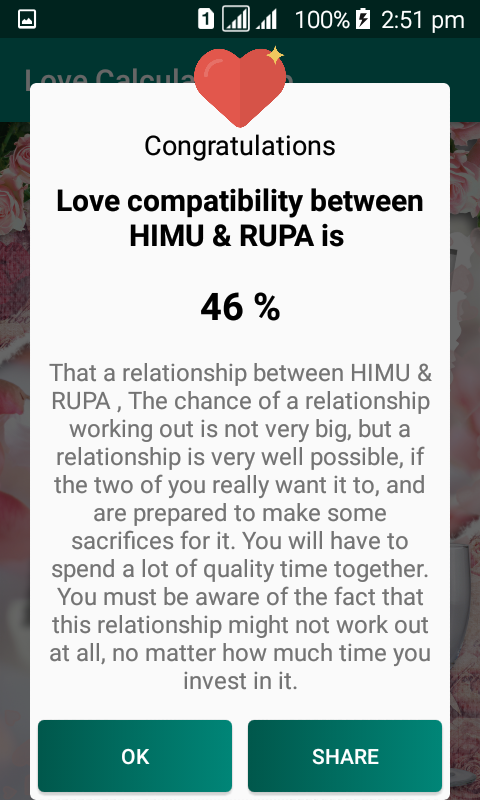
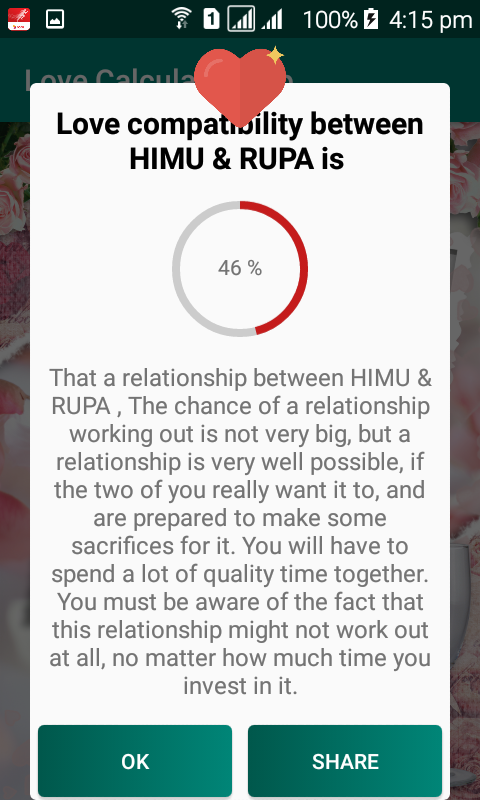
Add progressbar and some update

diff --git a/app/src/main/java/com/samad/talukder/lovecalculatorapp/ShowAlertDialog.java b/app/src/main/java/com/samad/talukder/lovecalculatorapp/ShowAlertDialog.java
@@ -8,6 +8,7 @@ import android.graphics.drawable.ColorDrawable;
 import android.view.View;
 import android.view.Window;
 import android.widget.Button;
+import android.widget.ProgressBar;
 import android.widget.TextView;
 
 public class ShowAlertDialog {
@@ -26,7 +27,8 @@ public class ShowAlertDialog {
         showLovePercentTV.setText(loveScore + " %");
         TextView showTipsTV = dialog.findViewById(R.id.showTipsTV);
         showTipsTV.setText("That a relationship between " + yourName.toUpperCase() + " & " + yourLoverName.toUpperCase() + " , " + loveTips);
-
+        ProgressBar progressBar = dialog.findViewById(R.id.progressBar);
+        progressBar.setProgress(loveScore);
 
         Button dialogOkBtn = dialog.findViewById(R.id.okBtn);
         dialogOkBtn.setOnClickListener(new View.OnClickListener() {
@@ -41,7 +43,7 @@ public class ShowAlertDialog {
             public void onClick(View v) {
                 Intent shareIntent = new Intent(Intent.ACTION_SEND);
                 shareIntent.putExtra(Intent.EXTRA_SUBJECT, "Love Calculator App");
-                shareIntent.putExtra(Intent.EXTRA_TEXT, "Love compatibility between " + yourName.toUpperCase() + " & " + yourLoverName.toUpperCase() + " is " + loveScore + "%");
+                shareIntent.putExtra(Intent.EXTRA_TEXT, "Love compatibility between " + yourName.toUpperCase() + " & " + yourLoverName.toUpperCase() + " is " + loveScore + "%"+"\n"+"Powered By: Samad Talukder ");
                 shareIntent.setType("text/plain");
                 context.startActivity(Intent.createChooser(shareIntent, "Share app via"));
             }

diff --git a/app/src/main/java/com/samad/talukder/lovecalculatorapp/MainActivity.java b/app/src/main/java/com/samad/talukder/lovecalculatorapp/MainActivity.java
@@ -24,7 +24,7 @@ public class MainActivity extends AppCompatActivity {
             public void onClick(View v) {
                 String yourNameStr = yourName.getText().toString();
                 String yourLoverNameStr = yourLoverName.getText().toString();
-                int loveScore = LoveCalculator.loveCalculationASCIIMethod(yourNameStr, yourLoverNameStr) % 100;
+                int loveScore = LoveCalculator.loveCalculation(yourNameStr, yourLoverNameStr) % 100;
                 if ((yourNameStr.isEmpty() || yourNameStr.length() < 2) || (yourLoverNameStr.isEmpty() || yourLoverNameStr.length() < 2) || (yourNameStr.equals(yourLoverNameStr))) {
                     Toast.makeText(MainActivity.this, "Enter Your Name & Your Lover Name", Toast.LENGTH_SHORT).show();
                     yourName.setText("");
